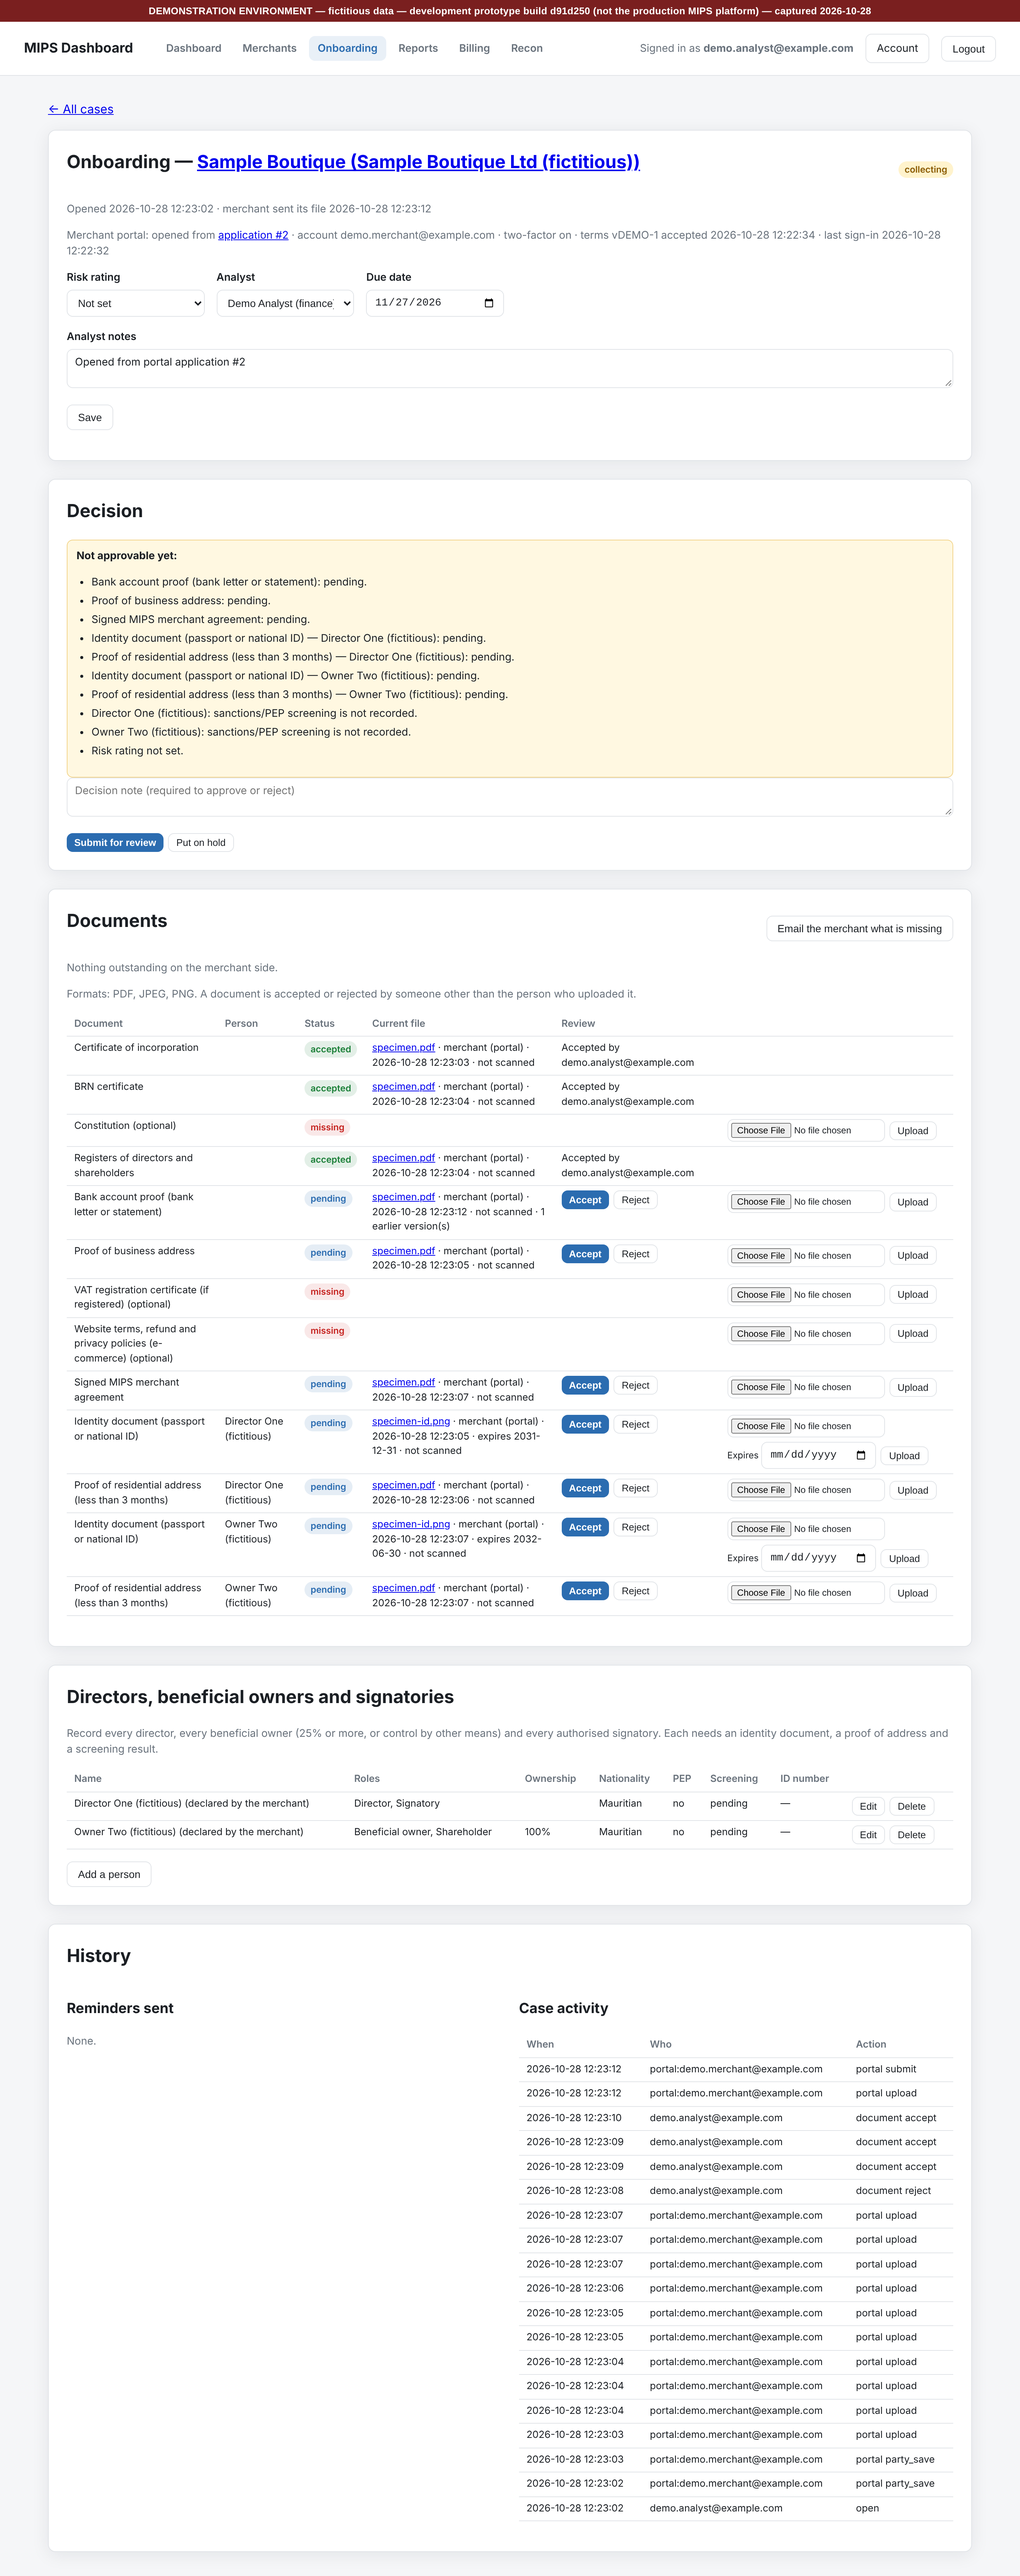
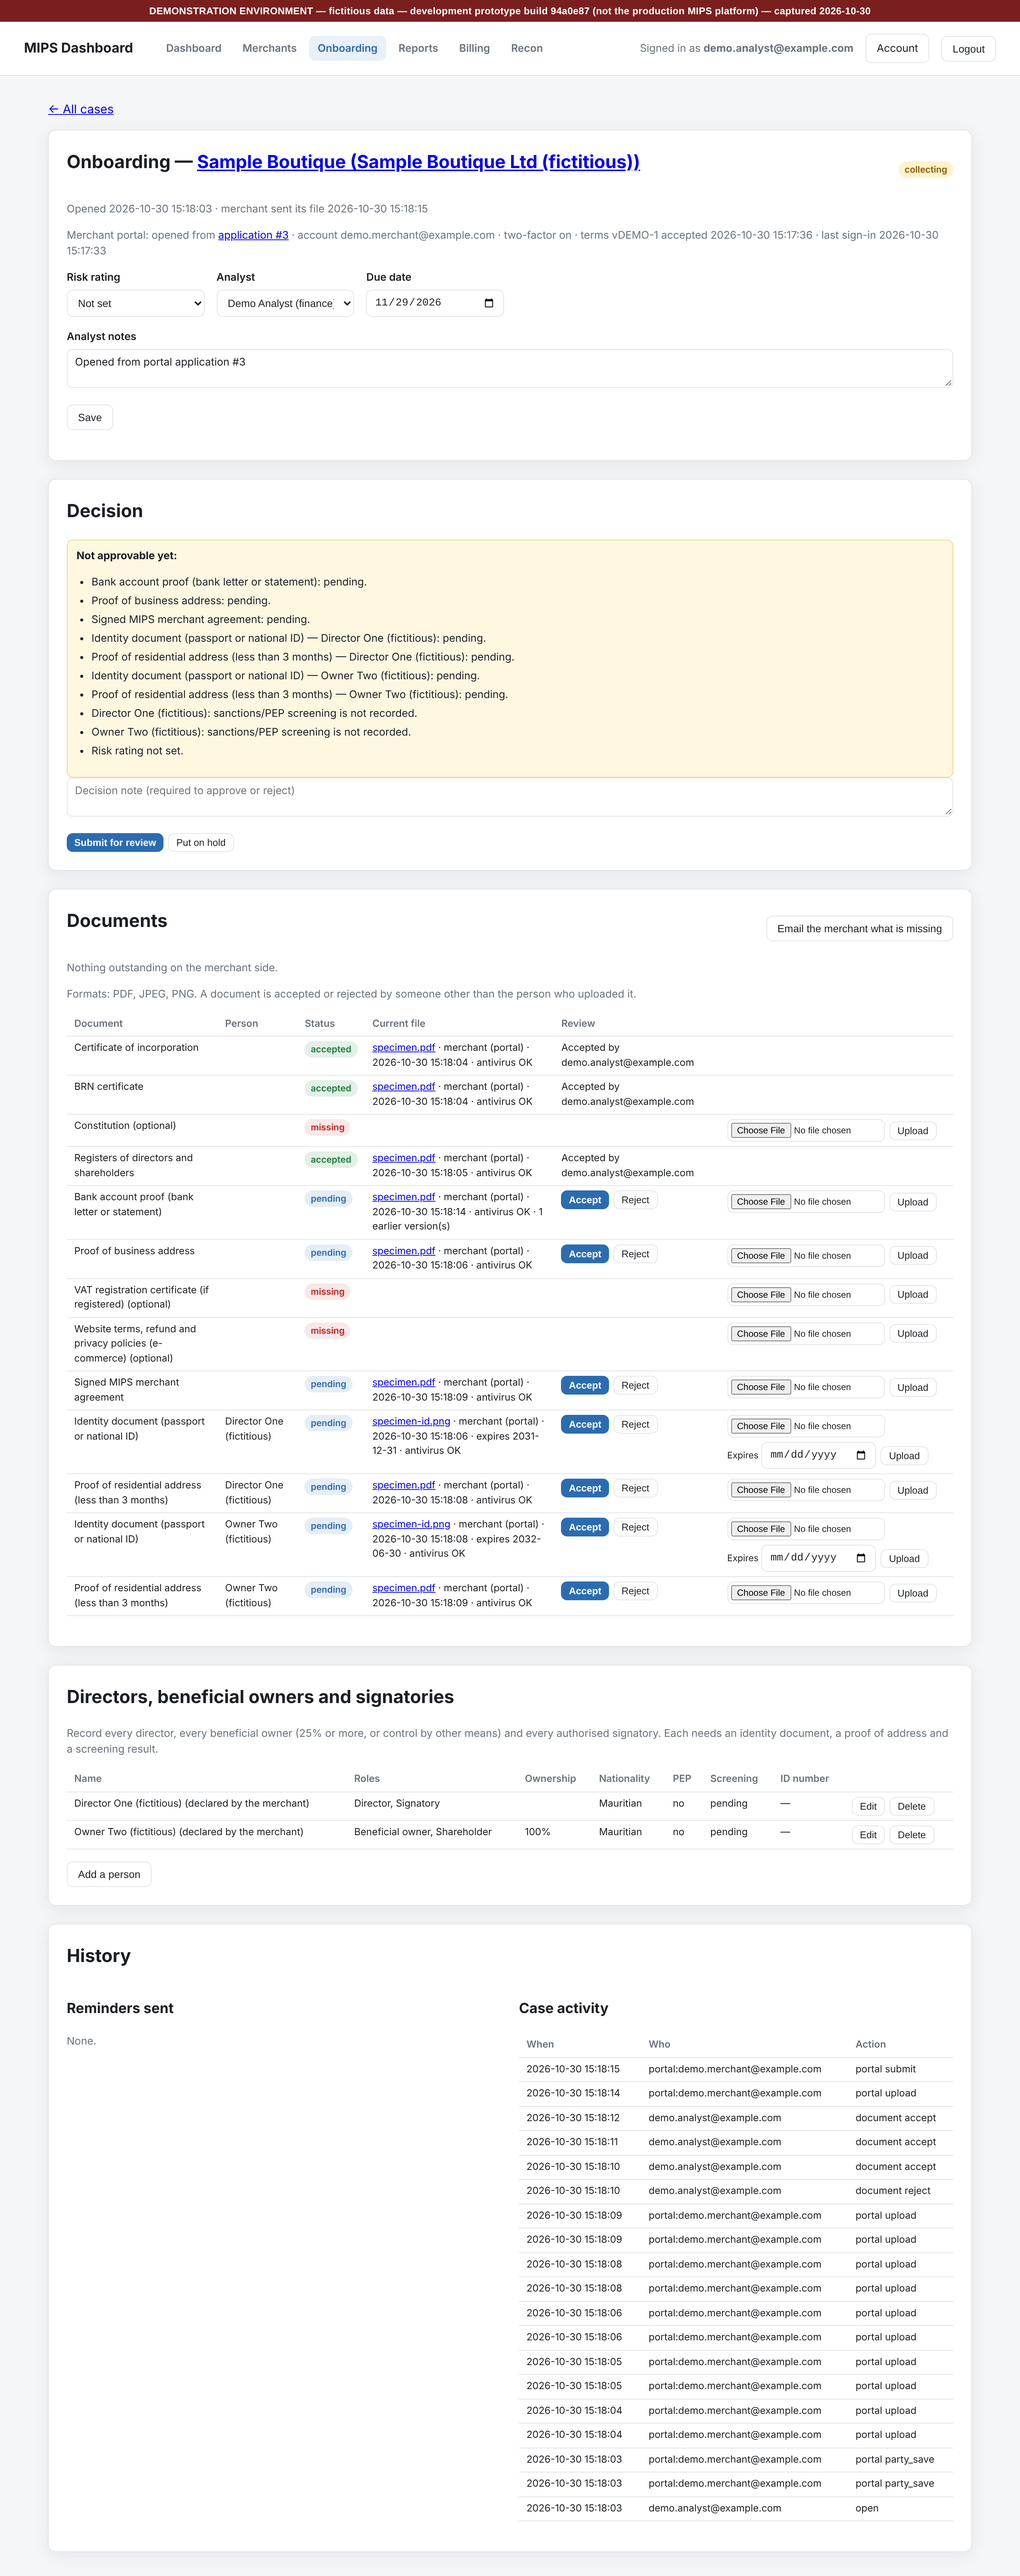
Recapture S04d with ClamAV and the official signatures
The portal walkthrough was replayed unchanged on a copy of the demo
database, with clamd running ClamAV 1.5.4 and the official signature
databases (main 63, daily 28169, bytecode 339, verified with sigtool,
from the Microsoft ClamAV mirror since the official server refuses this
environment) and require_antivirus on. Every merchant upload now shows
'antivirus OK' on S04d, build 94a0e87, captured 2026-10-30, DEMO banner.

The register and missing-evidence note record how the capture was made,
that S04c is the same fictitious walkthrough but an earlier run, and
that the official signatures do not flag the EICAR string appended to a
PDF, so a refused infected file could not be shown on screen.

Claude-Session: https://claude.ai/code/session_01ALCBMQrSwdEMnX9x1hQAFX

diff --git a/outputs/bom-screenshots/capture-register.md b/outputs/bom-screenshots/capture-register.md
@@ -6,7 +6,8 @@
   **non fusionnée, jamais déployée**. Ce n'est **pas** la plateforme MIPS de production, ni le
   « back-office V3 » de la capture 1 déjà partagée, ni my.mips.mu. Deux versions du prototype :
   - build `590d8d8`, capturée le **2026-10-27** : back-office interne (S01a–b, S02a–b, S04a–b, S05, S06, S07, C01–C04) ;
-  - build `d91d250`, capturée le **2026-10-28** : **portail marchand** ajouté (S01c–f, S02c–d, S03a–b, S04c–d, S05b, C05).
+  - build `d91d250`, capturée le **2026-10-28** : **portail marchand** ajouté (S01c–f, S02c–d, S03a–b, S04c, S05b, C05) ;
+  - build `94a0e87`, capturée le **2026-10-30** : **S04d refaite avec l'antivirus ClamAV actif** (voir S04 ci-dessous).
     Chaque image porte le numéro de build de sa version dans le bandeau.
 - **Environnement** : instance de démonstration locale (PHP 8.3, MariaDB 10.11, base `mips_demo`),
   configuration `env = demo`, emails écrits dans un journal (aucun envoi), 2FA activée comme en production.
@@ -48,7 +49,8 @@
   - ajout de suites de tests automatiques (`tests/`), voir la section en fin de registre.
 
   Aucune capture ne montre ces comportements : les images restent fidèles à l'interface actuelle. Elles portent
-  toutefois le numéro de leur build (`590d8d8` ou `d91d250`), **pas** celui de la version courante de la branche.
+  toutefois le numéro de leur build (`590d8d8` ou `d91d250`), **pas** celui de la version courante de la branche, sauf S04d
+  (build `94a0e87`, recapturée le 2026-10-30).
 
 ---
 
@@ -112,12 +114,12 @@
 | Limites | Vue interne (build `590d8d8`) ; dépôt fait par le personnel sur ce cas. Le dépôt côté marchand est S04c–d. Liste de pièces et seuil de 25 % = configuration par défaut **non validée par la conformité**. Contrôle sanctions/PEP **saisi manuellement**, sans outil de filtrage connecté. Documents = PDF « SPECIMEN » ; aucun document d'identité réel ; numéros d'identité absents (stockés chiffrés, jamais affichés). |
 | Légende | *KYB document collection and verification workflow (internal back-office view)* |
 
-| Fichier | `S04c-merchant-document-upload.png`, `S04d-merchant-uploads-staff-view.png` (build `d91d250`) |
+| Fichier | `S04c-merchant-document-upload.png` (build `d91d250`, 2026-10-28), `S04d-merchant-uploads-staff-view.png` (build `94a0e87`, **recapturée le 2026-10-30 avec ClamAV**) |
 |---|---|
 | Écran / parcours | Portail marchand → Documents ; puis côté MIPS : dossier KYC ouvert depuis la candidature |
 | Rôle | S04c : prospect fictif ; S04d : `demo.analyst@example.com` (finance, analyste) |
 | Fonction démontrée | Le prospect déclare ses administrateurs, bénéficiaires effectifs (avec %) et signataires, et **dépose lui-même** les pièces société et par personne (PDF, JPEG, PNG ; date d'expiration obligatoire pour les pièces d'identité) ; statut de chaque pièce ; **motif de refus** donné par MIPS (ici : relevé bancaire trop ancien) et nouveau dépôt possible ; liste de ce qui manque avant l'envoi. Côté MIPS : pièces marquées « merchant (portal) », acceptation ou refus par l'analyste (le déposant étant le marchand, le double regard est respecté), compte portail et historique horodaté des actions du marchand. |
-| Limites | Pièces = **spécimens fictifs** (PDF « SPECIMEN », image « SPECIMEN — FICTITIOUS IDENTITY DOCUMENT »). **Aucun antivirus installé** dans la démo : les pièces apparaissent « not scanned » sur S04d (le contrôle antivirus existe dans le code et a été testé avec un scanner de substitution, pas avec un antivirus réel). Filtrage sanctions/PEP toujours **saisi à la main** par MIPS. |
+| Limites | Pièces = **spécimens fictifs** (PDF « SPECIMEN », image « SPECIMEN — FICTITIOUS IDENTITY DOCUMENT »). **Antivirus (S04d)** : chaque pièce affiche « antivirus OK ». Elle a été analysée au dépôt par ClamAV 1.5.4 (démon `clamd`, `clamdscan --fdpass`), antivirus rendu obligatoire (`require_antivirus`), avec les **signatures officielles** vérifiées par `sigtool` (main v63, daily v28169 du 2026-10-30, bytecode v339), téléchargées depuis le miroir ClamAV de Microsoft (`packages.microsoft.com/clamav`) car le serveur officiel refuse l'environnement. « antivirus OK » veut dire « aucune signature connue détectée », pas « fichier garanti sain ». Pour obtenir S04d, le parcours du portail a été **rejoué à l'identique** sur une copie de la base de démonstration : dates du 2026-10-30, application #3 ; S04c (2026-10-28) montre le même parcours fictif, pas la même exécution. Filtrage sanctions/PEP toujours **saisi à la main** par MIPS. |
 | Légende | *KYB document collection by the applicant, with MIPS review (development prototype, demonstration data)* |
 
 ## S05 — Interface générale du portail — **PARTIEL (onboarding seulement)**
@@ -185,7 +187,7 @@ production. Le tableau indique, pour chaque capture, si le comportement montré 
 | S02c–d | `portal_test.py` | Étape « submitted », jamais présentée comme « approved » ; aucun champ interne (note de risque, blocages) exposé au marchand | Décision finale côté marchand (non capturée non plus) |
 | S03a–b | `portal_test.py` | Validation du formulaire, une préqualification par compte, signaux réservés à l'analyste, acceptation qui ouvre le dossier, refus | — |
 | S04a–b | `staff_onboarding_test.py` | Format vérifié sur le contenu, pièce d'identité rattachée à une personne du dossier, double regard (le déposant ne peut pas valider sa pièce), téléchargement exact | Seuil de 25 % pour les bénéficiaires effectifs |
-| S04c–d | `portal_test.py`, `antivirus_clamav_test.py` | Dépôt par le marchand, PEP déclarable mais jamais retirable, motif de refus visible, isolement entre marchands, antivirus bloquant quand il est requis ; avec le vrai moteur ClamAV (`clamscan` et démon `clamd`) : pièce infectée refusée, refus si les signatures manquent ou si l'antivirus est arrêté | Signatures officielles (non téléchargeables dans l'environnement de test) ; aucun antivirus installé sur la démo capturée |
+| S04c–d | `portal_test.py`, `antivirus_clamav_test.py` | Dépôt par le marchand, PEP déclarable mais jamais retirable, motif de refus visible, isolement entre marchands, antivirus bloquant quand il est requis ; avec le vrai moteur ClamAV (`clamscan` et démon `clamd`) : pièce infectée refusée, refus si les signatures manquent ou si l'antivirus est arrêté | La suite utilise une signature de test ; S04d a été produite avec les signatures officielles (voir S04). La chaîne EICAR placée à la fin d'un PDF n'est **pas** détectée par les signatures officielles (EICAR doit être en début de fichier) : le cas « pièce infectée » n'a donc pas pu être montré à l'écran avec la base officielle |
 | S05, S05b | toutes | Refus d'accès selon le rôle (compte sans rôle métier refusé sur chaque module), sessions personnel et marchand séparées | — |
 | S06 | `reporting_test.py` | Règles de nettoyage, séries de tendance, mois non importés affichés comme des trous | Données réelles |
 | S07 | `recon_test.py` | Six catégories d'écart bouclées au centime, remaps MID, alertes de périmètre, éléments à réclamer, détail journalier, exports | Fichier MCB réel |

diff --git a/tests/README.md b/tests/README.md
@@ -11,7 +11,7 @@ Onze suites qui pilotent l'application par son API, comme le ferait un navigateu
 | `billing_test.py` | Règles de commission (validation, priorité marchand > rail spécifique > type de rail > canal, dates de validité, désactivation), factures avec TVA 15 %, une par marchand et devise, cycle brouillon → émise → payée / annulée, numérotation sans trou, mois verrouillé contre la réimport, marchand non facturable, export comptable | 47 |
 | `recon_test.py` | Rapprochement MCB / MIPS : correspondances de MID et liste de surveillance, ventilation de l'écart (vérifications de carte, décalage de fin de mois, surveillance, un seul côté, écart réel), règle de signe, avertissements de périmètre (extraction filtrée, marchand témoin, lignes hors mois), vue journalière, éléments à réclamer, exports, recalcul | 55 |
 | `merchants_test.py` | Fiches marchands : validation du profil, responsable de compte, nom d'import verrouillé dès qu'il y a des transactions, historique des modifications (qui, quoi, avant, après), recherche, contacts (un seul principal), identifiants MID/TUI uniques, contrats (validation, PDF contrôlé sur son contenu, stockage hors web, empreinte, téléchargement exact, document remplacé conservé, suppression des brouillons seulement), alertes de préavis | 71 |
-| `antivirus_clamav_test.py` | Antivirus des pièces avec le vrai moteur ClamAV, en `clamscan` et via le démon `clamd` : pièce saine acceptée et marquée analysée, pièce infectée refusée sans rien stocker, refus si ClamAV n'a pas de signatures, si le programme manque ou si le démon est arrêté. **Signatures de test** (une ligne reconnaissant la chaîne EICAR), pas la base officielle. Ignorée avec un message si ClamAV n'est pas installé | 11 |
+| `antivirus_clamav_test.py` | Antivirus des pièces avec le vrai moteur ClamAV, en `clamscan` et via le démon `clamd` : pièce saine acceptée et marquée analysée, pièce infectée refusée sans rien stocker, refus si ClamAV n'a pas de signatures, si le programme manque ou si le démon est arrêté. **Signatures de test** (une ligne reconnaissant la chaîne EICAR), pas la base officielle : avec la base officielle, la chaîne EICAR ajoutée à un PDF n'est pas détectée (la norme EICAR exige qu'elle soit en début de fichier), et `clamscan` met environ 20 s par fichier (mesuré le 2026-10-30). Ignorée avec un message si ClamAV n'est pas installé | 11 |
 | `staff_2fa_required_test.py` | 2FA obligatoire pour admin et finance (règle activée le temps de la suite, comme en production) : mot de passe accepté puis tous les modules fermés, renvoi vers l'enrôlement, ouverture après enrôlement, désactivation refusée, second facteur exigé à la connexion suivante, remise à zéro par un administrateur, promotion d'un compte sans 2FA, rôle `user` non concerné | 23 |
 | `admin_test.py` | Comptes du personnel : demande de compte et activation par un administrateur, rôles appliqués dès la requête suivante, un administrateur ne peut ni se rétrograder ni se désactiver, lien de réinitialisation à usage unique, mot de passe oublié sans révéler les comptes existants, changement de mot de passe qui ferme les autres sessions, 2FA (activation, rejeu refusé, codes de secours à usage unique, régénération, désactivation, remise à zéro par un administrateur), consultation du journal d'audit, limitation des tentatives de connexion par compte et par adresse | 93 |
 | `bigquery_test.py` | Import direct depuis BigQuery via un émulateur local : jeton de compte de service signé, requête paramétrée avec plafond de coût, attente du job et pagination, bornes du mois à l'heure de Maurice, mois vide, clé refusée | 23 |

diff --git a/outputs/bom-screenshots/missing-evidence.md b/outputs/bom-screenshots/missing-evidence.md
@@ -14,7 +14,7 @@ Une absence dans ce dépôt **ne prouve pas** l'absence dans la plateforme MIPS 
 | S01 Connexion + T&Cs | **Présent dans le prototype** (S01c–f) : compte marchand, double authentification obligatoire, acceptation des conditions par version, journal du consentement. **Texte des conditions = remplissage.** | Le **texte réel** des conditions, validé par le juridique, puis une nouvelle capture. Si le dossier doit montrer le système en service : captures de la plateforme réelle. |
 | S02 Parcours d'onboarding | **Présent** : vue interne (S02a–b) et vue du prospect (S02c–d). Étape « décision » non illustrée côté marchand. | Rien d'obligatoire. Option : capture d'un dossier approuvé vu par le marchand. |
 | S03 Préqualification | **Présent dans le prototype** (S03a–b). Signaux pour l'analyste seulement ; pas de notation de risque automatique. | Validation par la conformité des secteurs sensibles et de la tranche de volume signalée ; règles d'éligibilité à formaliser. |
-| S04 Collecte KYB | **Présent** : vue interne (S04a–b) et dépôt par le marchand (S04c–d). **Aucun antivirus installé** dans la démo. | Installer et activer l'antivirus avant toute mise en service, et refaire la capture S04d (pièces « clean » au lieu de « not scanned »). |
+| S04 Collecte KYB | **Présent** : vue interne (S04a–b) et dépôt par le marchand (S04c–d). S04d recapturée le 2026-10-30 avec ClamAV actif et les signatures officielles : pièces « antivirus OK ». | Installer, superviser et rendre obligatoire l'antivirus sur la plateforme réelle avant toute mise en service ; procédure en cas de détection. |
 | S05 Portail général | **Partiel** : portail marchand limité à l'entrée en relation (S05b) ; navigation du back-office (S05). | Espace d'un **marchand actif** (transactions, relevés, règlements) : n'existe pas dans le prototype. |
 | S06 Dashboard marchand | **Absent** ; seul un rapport interne agrégé existe. | Capture 1 (back-office V3) ou dashboard marchand réel, en distinguant volume traité, fonds encaissés, fonds reçus et montants réglés. |
 | S07 Règlement | Rapprochement acquéreur ↔ plateforme présent ; **pas de rapprochement trust, pas de validation de règlement**. | Rapprochement du compte trust (fonds reçus vs droits des marchands) et circuit de validation des règlements. |
@@ -61,7 +61,8 @@ du CEO (spécification : `outputs/dev-handover/my-mips-onboarding-kyc.md`, § 10
   `onboarding_approval_test.py` (78 vérifications). La suite a révélé un contournement du double regard
   (réassigner le dossier puis le trancher soi-même), corrigé le même jour.
 - ~~2FA obligatoire pour admin et finance~~ : couverte depuis le 2026-10-30 par `staff_2fa_required_test.py` (23 vérifications).
-- Antivirus : le vrai moteur ClamAV est testé depuis le 2026-10-30 (`antivirus_clamav_test.py`), mais avec une base de
-  signatures de test ; la base officielle n'a pas pu être téléchargée dans l'environnement de test. La capture S04d
-  reste « not scanned » tant que l'antivirus n'est pas installé sur l'instance capturée.
+- Antivirus : le vrai moteur ClamAV est testé depuis le 2026-10-30 (`antivirus_clamav_test.py`) avec une signature de
+  test. S04d a été recapturée le même jour avec ClamAV et les **signatures officielles** (miroir Microsoft). Reste non
+  montré à l'écran : le refus d'une pièce infectée avec la base officielle (la chaîne EICAR dans un PDF n'est pas
+  détectée par cette base ; seul un fichier EICAR pur l'est, et il est refusé avant l'antivirus par le contrôle de format).
 - Fichier MCB réel, table BigQuery réelle : uniquement simulés.
